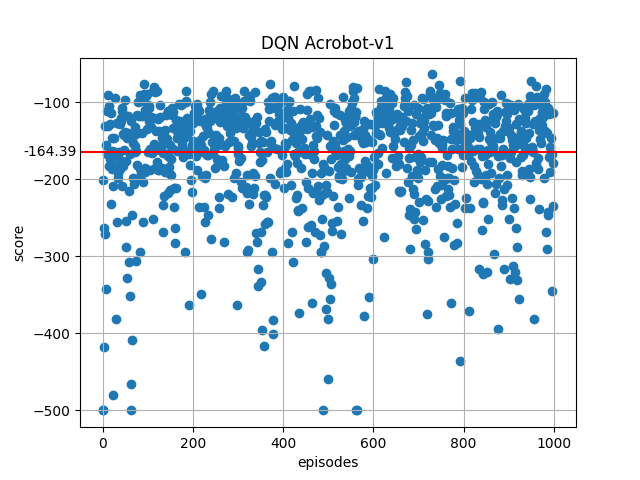
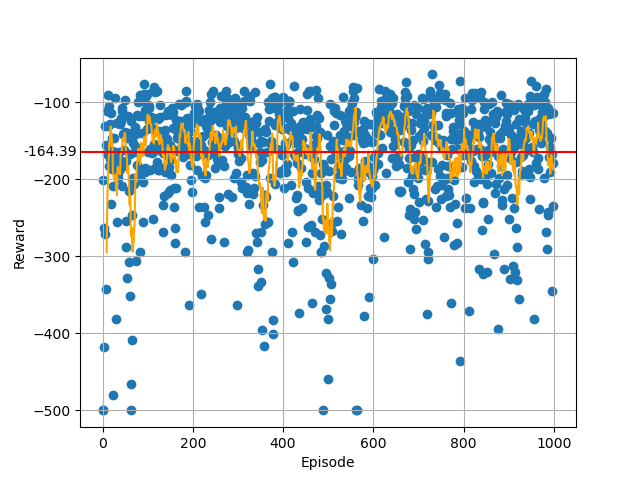
update plots

diff --git a/DQN/plot_csv.py b/DQN/plot_csv.py
@@ -1,8 +1,5 @@
-import sys
-import csv
 import numpy as np
 import pandas as pd
-import os.path
 import matplotlib
 import argparse
 matplotlib.use('Agg')
@@ -29,21 +26,24 @@ argparser.add_argument("--png", required=True, type=str,
   help="output png file")
 args = argparser.parse_args()
 
-
+# scatter data
 data = pd.read_csv(args.csv)
 
+# smoothed average of last 10 episodes
+rewards_smoothed = pd.Series.rolling(pd.Series(data['score']), 10).mean()
+rewards_smoothed = [elem for elem in rewards_smoothed]
+
 plt.scatter(data['step'], data['score'])
-plt.title('DQN Acrobot-v1')
+plt.plot(rewards_smoothed, color='orange')
 plt.xlabel('Episode')
 plt.ylabel('Reward')
+plt.grid(True)
 
-# print avg. score of last 100 episodes
+# add avg. score of last 100 episodes
 last_100 = data["score"][-100:]
 avg_last_100 = sum(last_100)/100
-print('avg score of last 100 episodes:', avg_last_100)
 plt.axhline(y=avg_last_100, color='r', linestyle='-')
 plt.text(-175, avg_last_100-5, avg_last_100)
 
-plt.grid(True)
 plt.savefig(args.png)
 plt.close()
